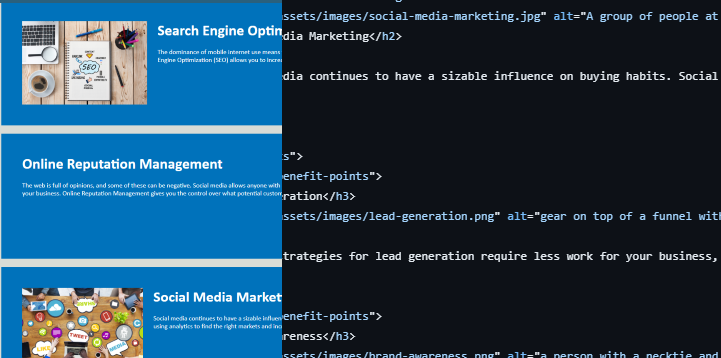
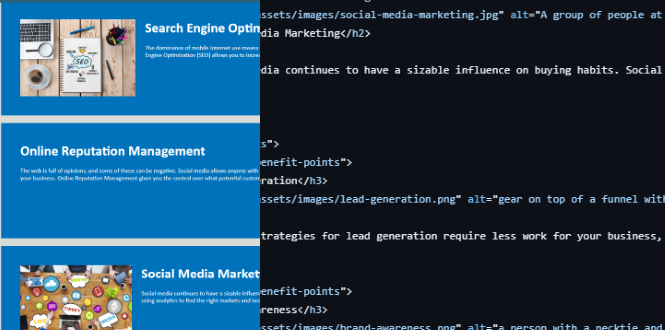
added and styled second project to my work section

diff --git a/index.html b/index.html
@@ -49,12 +49,17 @@
       </h2>
     </aside>
     <section class="main-project">
-     <a href="https://aharper2568.github.io/html-seo-refactor/"> <img src="./assets/images/refactorscreen.png" alt="graphic showing screenshot of seo refactor page alongside html code">
+     <a href="https://aharper2568.github.io/html-seo-refactor/" target="_blank"> <img src="./assets/images/refactorscreen.png" alt="graphic showing screenshot of seo refactor page alongside html code">
       <p>SEO Refactor(Complete)</p>
      
     </a>
     </section>
-
+    <section class="mini-project">
+      <a href="https://aharper2568.github.io/01-mini-project/" target="_blank">
+        <img src="./assets/images/01mini-project-screen.png" alt="screenshot of mini-project alongside CSS code">
+        <article class="image-overlay"><p>Mini Project (In Progress)</p></article>
+      </a>
+    </section>
   </main>
 
 </body>

diff --git a/assets/css/style.css b/assets/css/style.css
@@ -70,16 +70,18 @@ main {
 .main-project {
   display: inline-flex;
   width:850px;
-  transition: ease-in 1s;
+  margin-left:20px;
 }
 
 .main-project img {
-  width:750px;
+  width:100%;
 }
+
+/* overcomplicated overlay, probably needs seperate container */
 .main-project p {
   background-color: white;
   position: absolute;
-  top: 650px;
+  top: 640px;
   right: 1200px;
   display:none;
 }
@@ -88,7 +90,19 @@ main {
   cursor: pointer;
   
 }
-
-.main-project:hover a{
+/* I can't get this shadow to work */
+.main-project:hover img{
   box-shadow: 5px 2px 1px rgba(0, 0, 0, 1) inset;
+}
+
+.image-overlay p {
+  position:absolute;
+  transform: translateX(250px);
+  top:640px;
+  background-color: white;
+  display:none;
+}
+
+.mini-project:hover p {
+  display:inline;
 }
